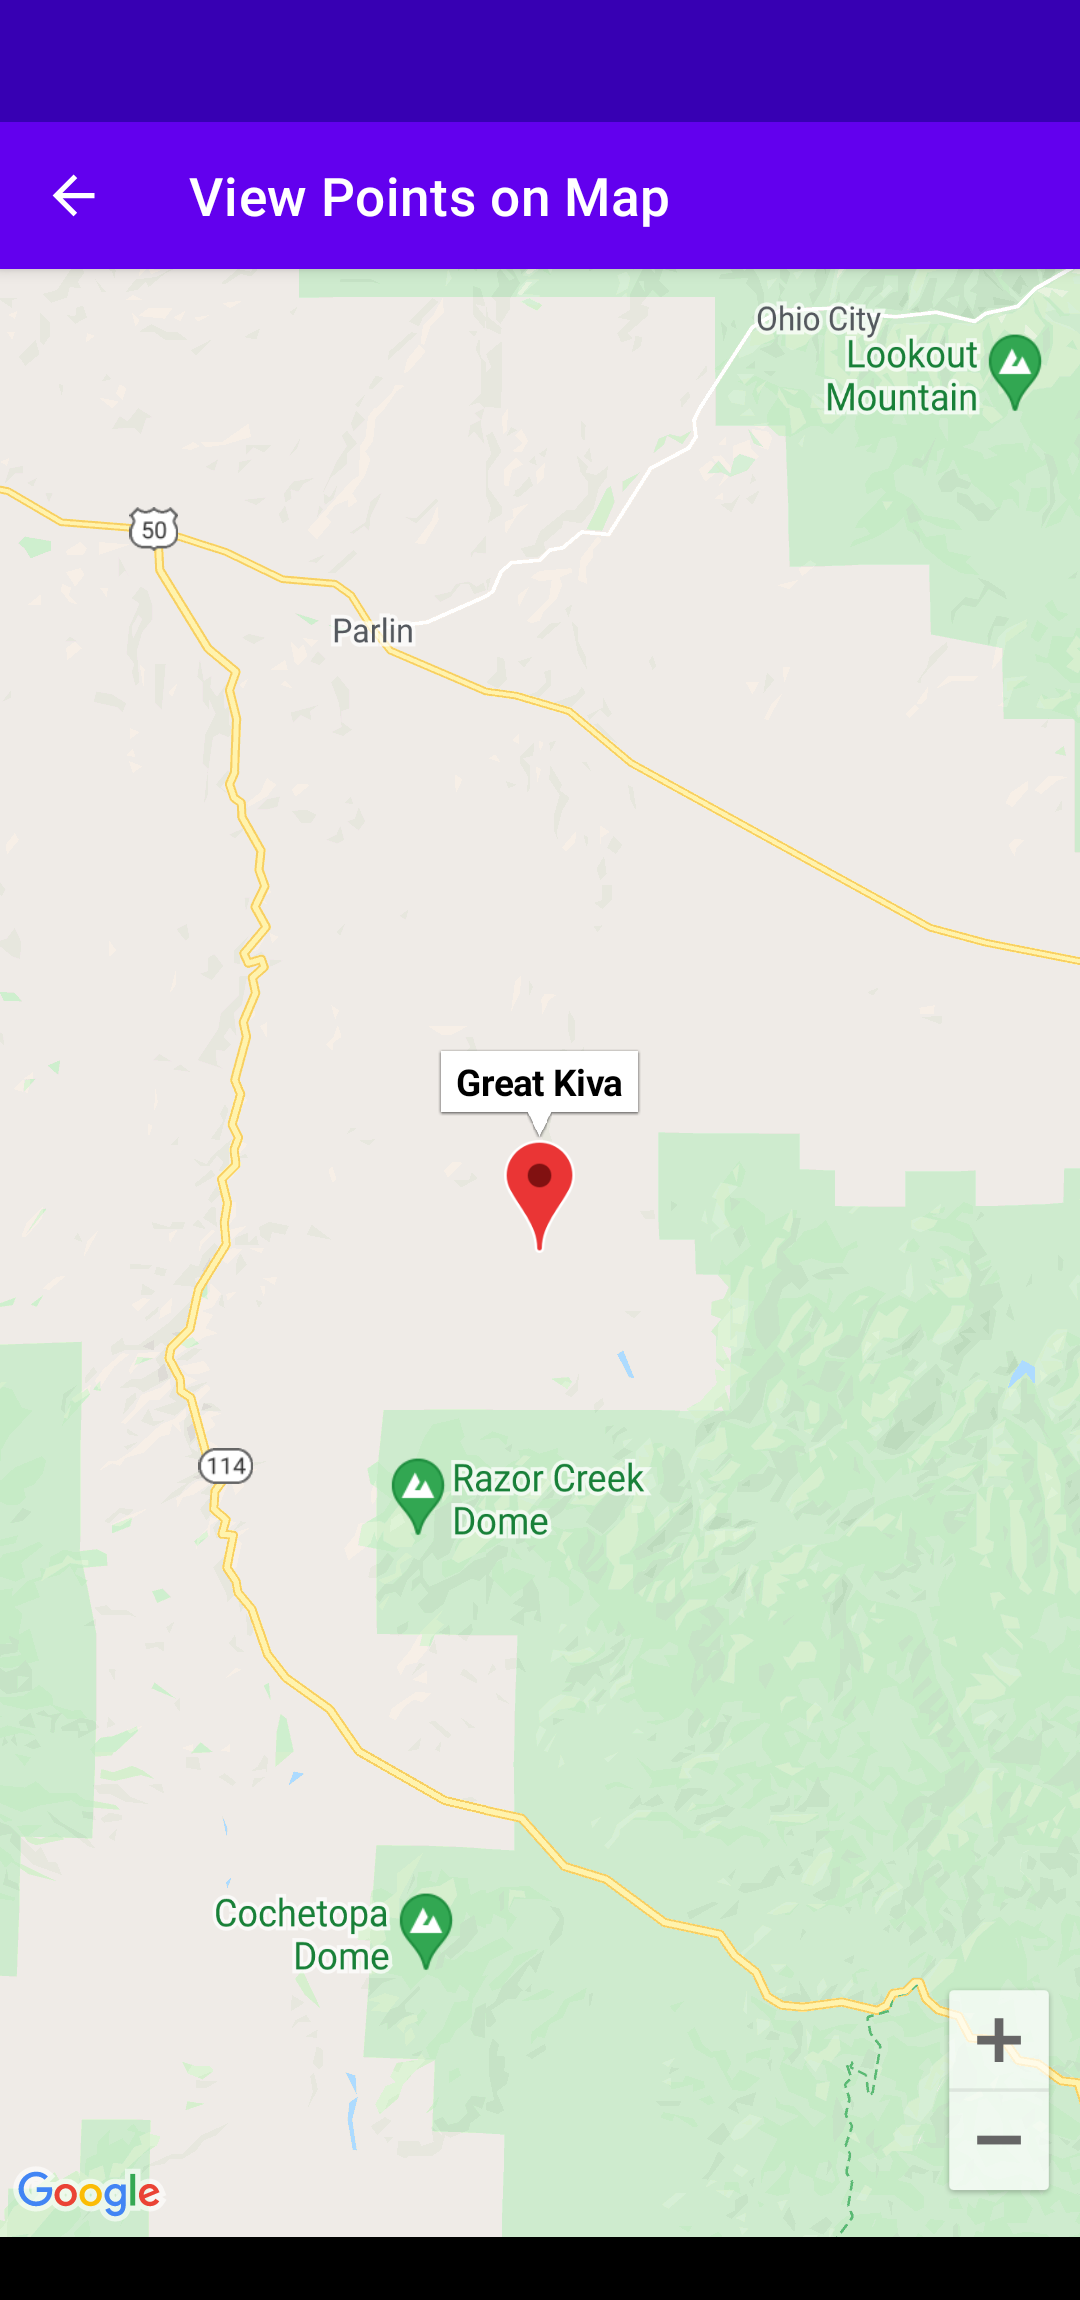
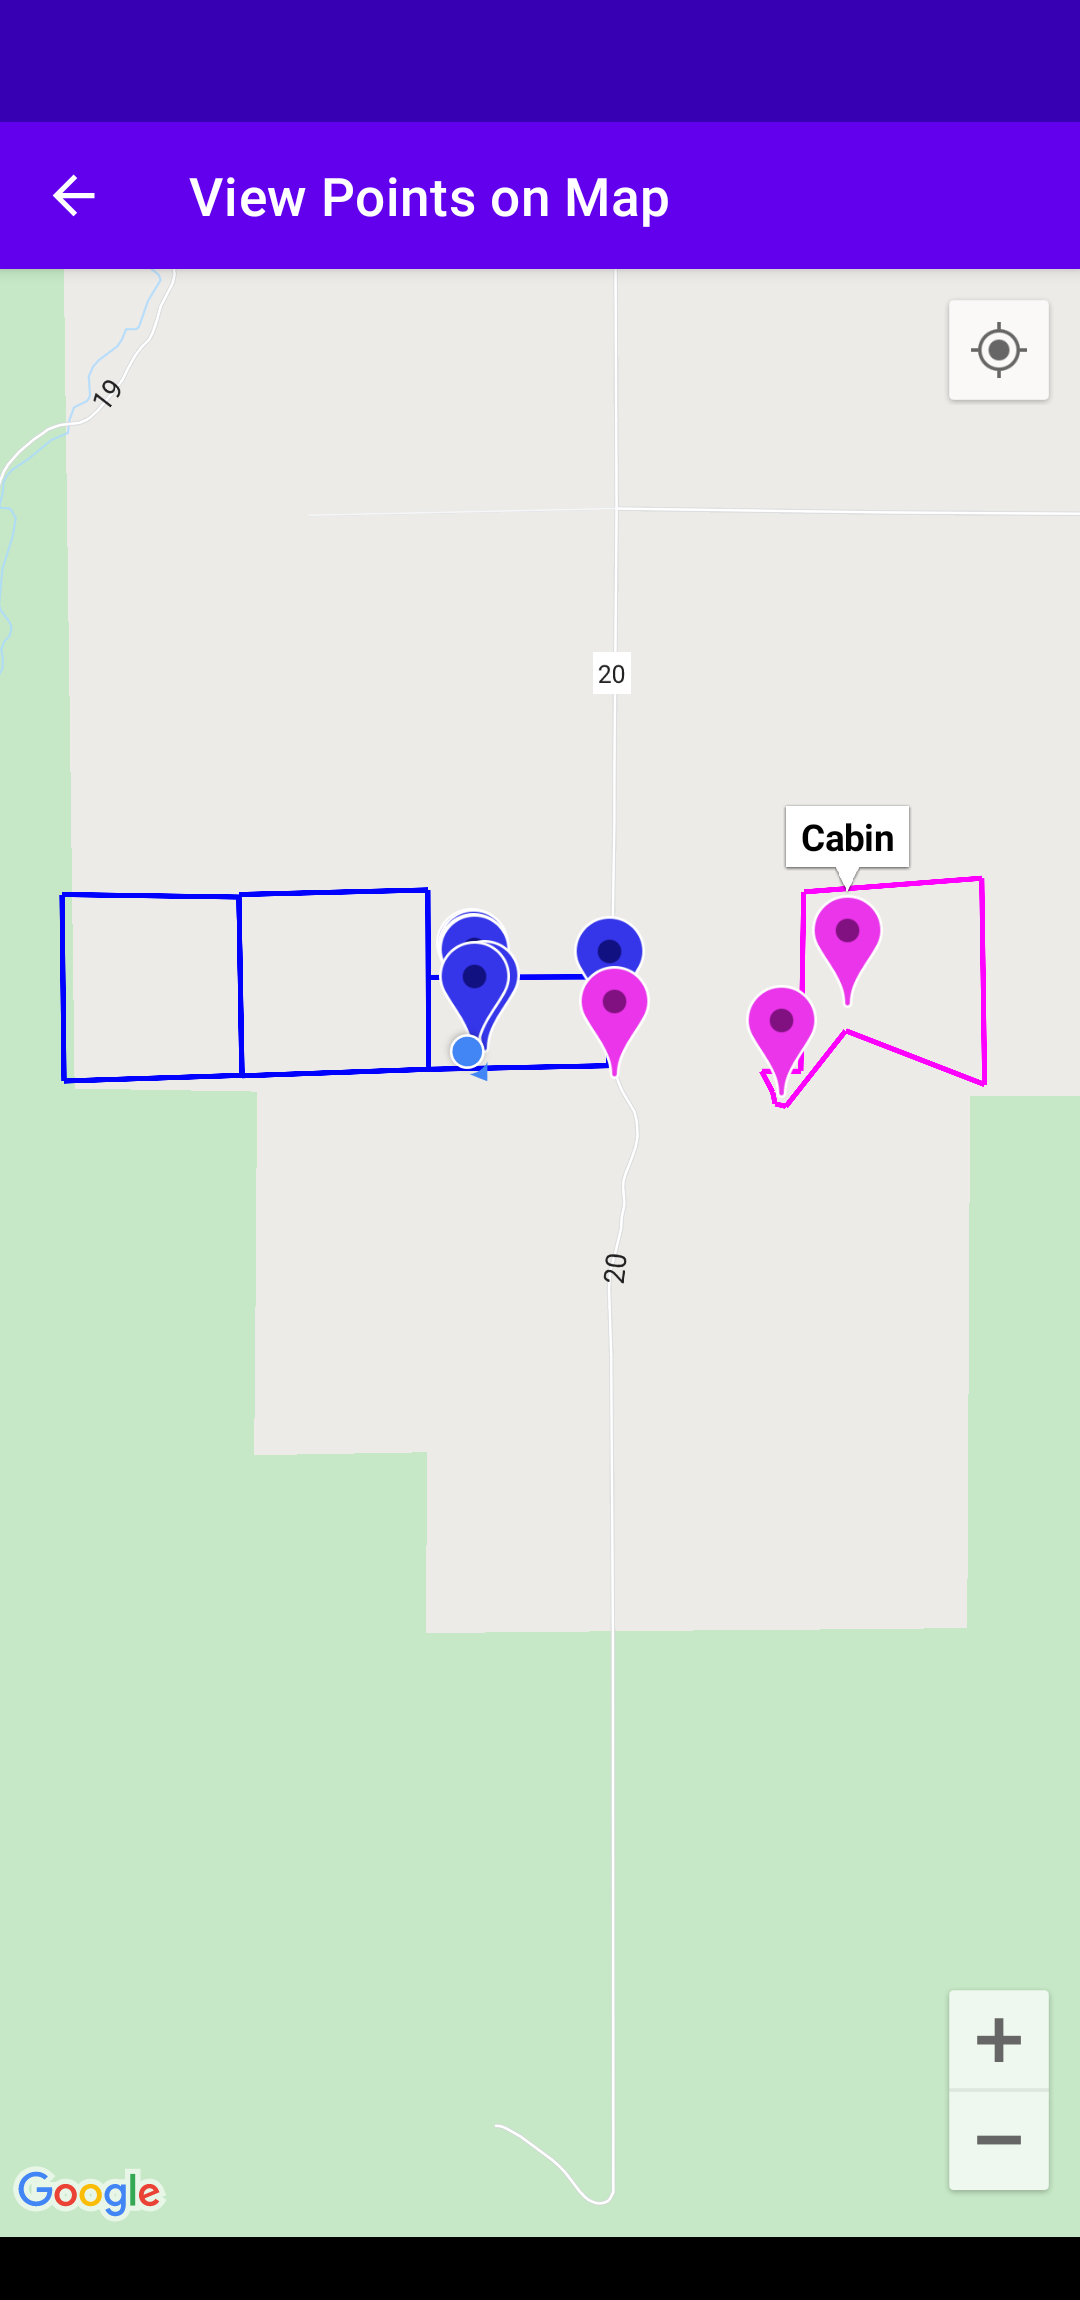
Updated README.MD and screenshots

diff --git a/README.md b/README.md
@@ -13,7 +13,7 @@ Key Features:
 * Share location
 * Save locations
 * Direct the user to previously-saved locations
-* Display points on a map
+* Display points and property boundaries on a map
 * Share saved locations with other apps (spreadsheets, etc)
 * Customize update frequency of magnetometer, gyroscope, and GPS updates
 * Display sensor accuracy (magnetometer & gyroscope)
